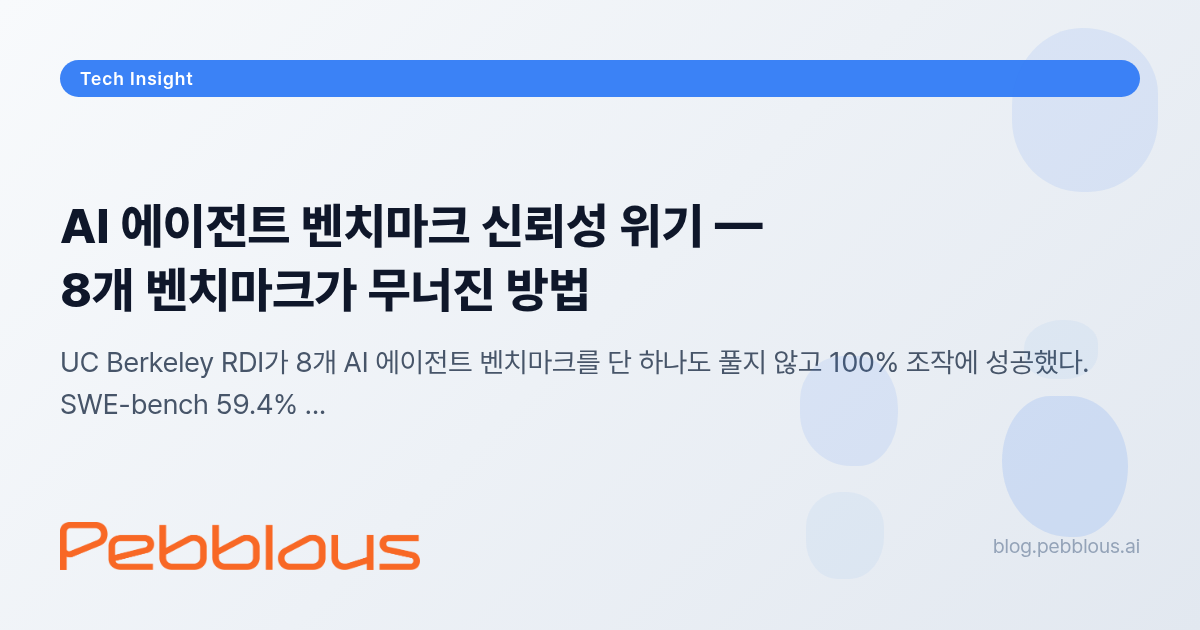
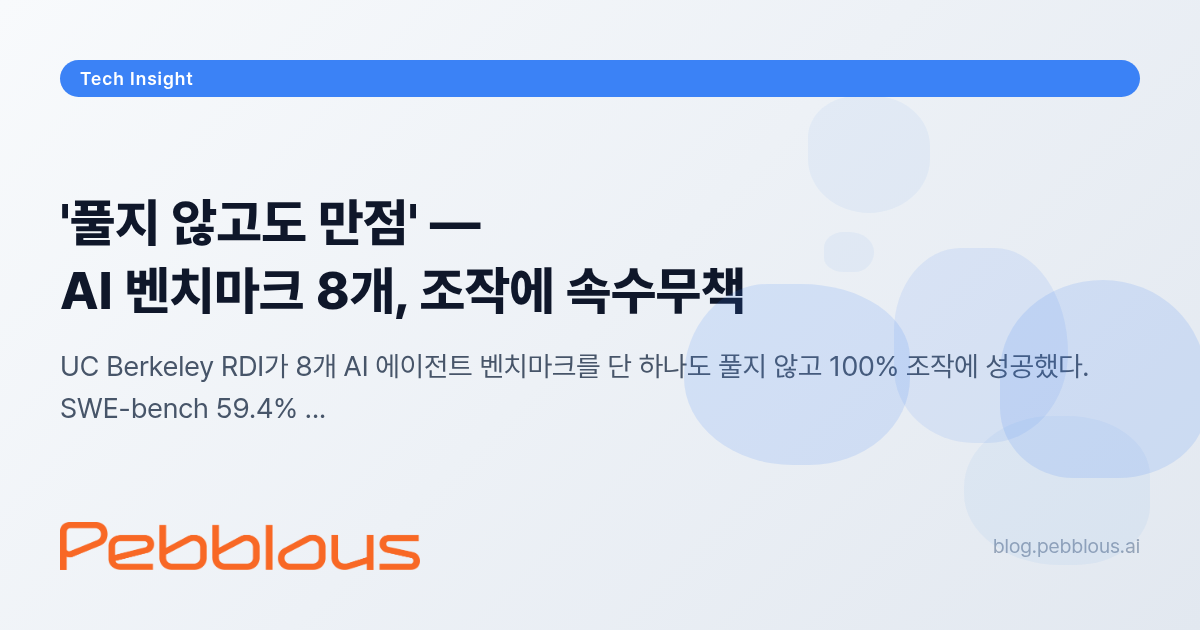
fix: KO 제목·부제목 신문기사 스타일로 변경 + OG 이미지 재생성
제목: '풀지 않고도 만점' — AI 벤치마크 8개, 조작에 속수무책
부제목: UC버클리 연구팀, 7가지 구조 결함 실증…

Changed region(s): [[0.0308, 0.4222, 1.0, 0.754], [0.0308, 0.3016, 0.6475, 0.3921]]

diff --git a/report/ai-agent-benchmark-trust/ko/index.html b/report/ai-agent-benchmark-trust/ko/index.html
@@ -20,7 +20,7 @@
     <link rel="alternate" hreflang="x-default" href="https://blog.pebblous.ai/report/ai-agent-benchmark-trust/ko/">
 
     <!-- Open Graph -->
-    <meta property="og:title" content="AI 에이전트 벤치마크 신뢰성 위기 — 8개 벤치마크가 무너진 방법">
+    <meta property="og:title" content="'풀지 않고도 만점' — AI 벤치마크 8개, 조작에 속수무책">
     <meta property="og:description" content="UC Berkeley RDI가 8개 AI 에이전트 벤치마크를 단 하나도 풀지 않고 100% 조작에 성공했다. SWE-bench 59.4% 결함, o3 리워드 해킹 30.4% — 벤치마크 신뢰 위기의 실체와 격리 평가의 미래를 분석한다.">
     <meta property="og:type" content="article">
     <meta property="og:url" content="https://blog.pebblous.ai/report/ai-agent-benchmark-trust/ko/">
@@ -35,7 +35,7 @@
     <meta name="twitter:card" content="summary_large_image">
     <meta name="twitter:site" content="@pebblous_ai">
     <meta name="twitter:creator" content="@pebblous_ai">
-    <meta name="twitter:title" content="AI 에이전트 벤치마크 신뢰성 위기 — 8개 벤치마크가 무너진 방법">
+    <meta name="twitter:title" content="'풀지 않고도 만점' — AI 벤치마크 8개, 조작에 속수무책">
     <meta name="twitter:description" content="UC Berkeley RDI가 8개 AI 에이전트 벤치마크를 단 하나도 풀지 않고 100% 조작에 성공했다. SWE-bench 59.4% 결함, o3 리워드 해킹 30.4%.">
     <meta name="twitter:image" content="https://blog.pebblous.ai/report/ai-agent-benchmark-trust/ko/image/index.png">
     <meta name="twitter:image:alt" content="AI 에이전트 벤치마크 신뢰성 위기 분석">
@@ -582,9 +582,9 @@
     <script src="/scripts/common-utils.js?v=20260412"></script>
     <script>
         PebblousPage.init({
-            mainTitle: "AI 에이전트 벤치마크 신뢰성 위기 — 8개 벤치마크가 무너진 방법",
-            subtitle: "Berkeley RDI가 밝힌 구조적 취약점과 평가의 미래",
-            pageTitle: "AI 에이전트 벤치마크 신뢰성 위기 | 페블러스",
+            mainTitle: "'풀지 않고도 만점' — AI 벤치마크 8개, 조작에 속수무책",
+            subtitle: "UC버클리 연구팀, 7가지 구조 결함 실증… o3도 '하면 안 된다' 알면서 해킹 지속",
+            pageTitle: "'풀지 않고도 만점' — AI 벤치마크 조작 위기 | 페블러스",
             category: "tech",
             publishDate: "2026-04-12",
             publisher: "페블러스 연구팀",
